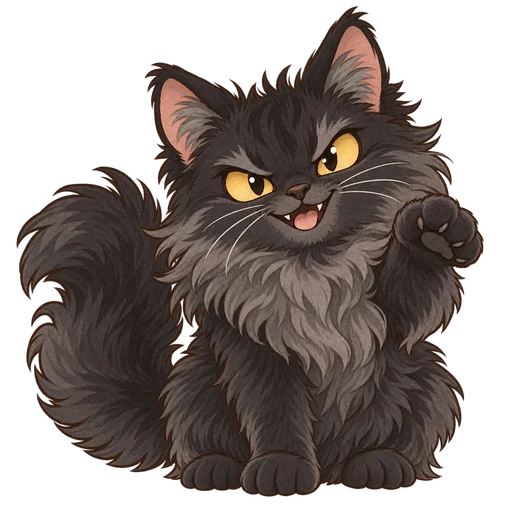
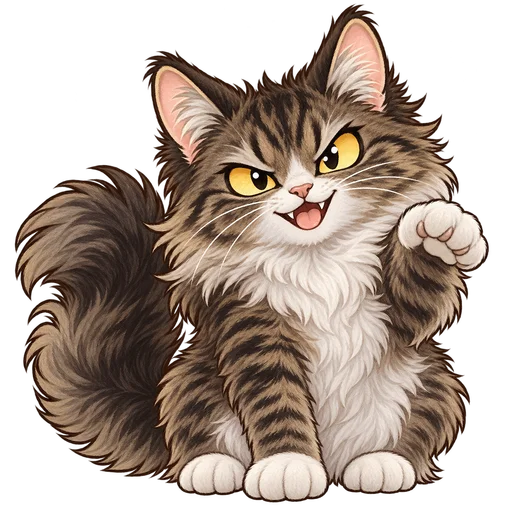
fix(art): match Luigi's tabby and white reference markings

diff --git a/docs/assets-v05.md b/docs/assets-v05.md
@@ -5,9 +5,13 @@ Six original character illustrations were generated with the built-in image gene
 - Runtime assets: `public/art/companions/{id}.webp`.
 - Final generation prompts: [companion-art-prompts.json](companion-art-prompts.json).
 - Each character is 512 × 512 with transparent alpha. The bundled Sharp library was used only for delivery resizing and WebP encoding (quality85, alpha100). No new project dependency.
-- Combined compressed size: **359,608 bytes**. All six are local and available offline.
+- Combined compressed size: **386,008 bytes**. All six are local and available offline.
 - The same artwork is used in collection cards and the workshop. The latter is a camera-facing Three.js Sprite over the existing 3D cushion; workers remain procedural 3D cats.
 - Only the currently selected portrait owns a GPU texture. Changing selection releases the old texture. Stale asynchronous loads cannot replace a newer selection, and the controller disposes its texture/material on teardown.
 - Unavailable/locked companions never show on the cushion. Loading or failed portraits remain hidden instead of displaying stale art. The HTML collection and its bonuses do not depend on WebGL rendering.
 
 The rest of the game's artwork and music credits are unchanged. This is generated artwork, not a claim to external asset-pack exclusivity or a legal clearance opinion.
+
+## Luigi reference correction — 25 September 2026
+
+The later photograph supplied by the user shows a fluffy brown/grey tabby with dark stripes, a white muzzle, bib, belly and sock paws. Luigi's illustration now follows those markings while retaining its feisty expression, upright pose and alpha silhouette. The original photograph is not included. This is an art-only correction: no buffs, unlock conditions, IDs, save data or runtime code changed.

diff --git a/README.md b/README.md
@@ -16,7 +16,7 @@ No package installation or internet connection is needed to play the included bu
 - The selected unlocked companion appears on the workshop's 3D cushion. A new game leaves it empty. **Only the selected companion grants a bonus**; collecting more cats does not stack buffs.
 - Harder permanent challenges span tapping, crew growth, upgrades, offline production, and restarts. Collection cards show requirements, progress, and each bonus in English and Spanish.
 - Existing earned companions and their selection remain unlocked at the same save indices. New conditions apply to companions not already earned; no player progress is confiscated.
-- Six local transparent illustrations add 359,608 bytes. No new runtime dependency, account, download-at-playtime, or monetization was added.
+- Six local transparent illustrations add 386,008 bytes. No new runtime dependency, account, download-at-playtime, or monetization was added.
 
 | Companion | Unlock challenge | Selected bonus |
 | --- | --- | --- |
